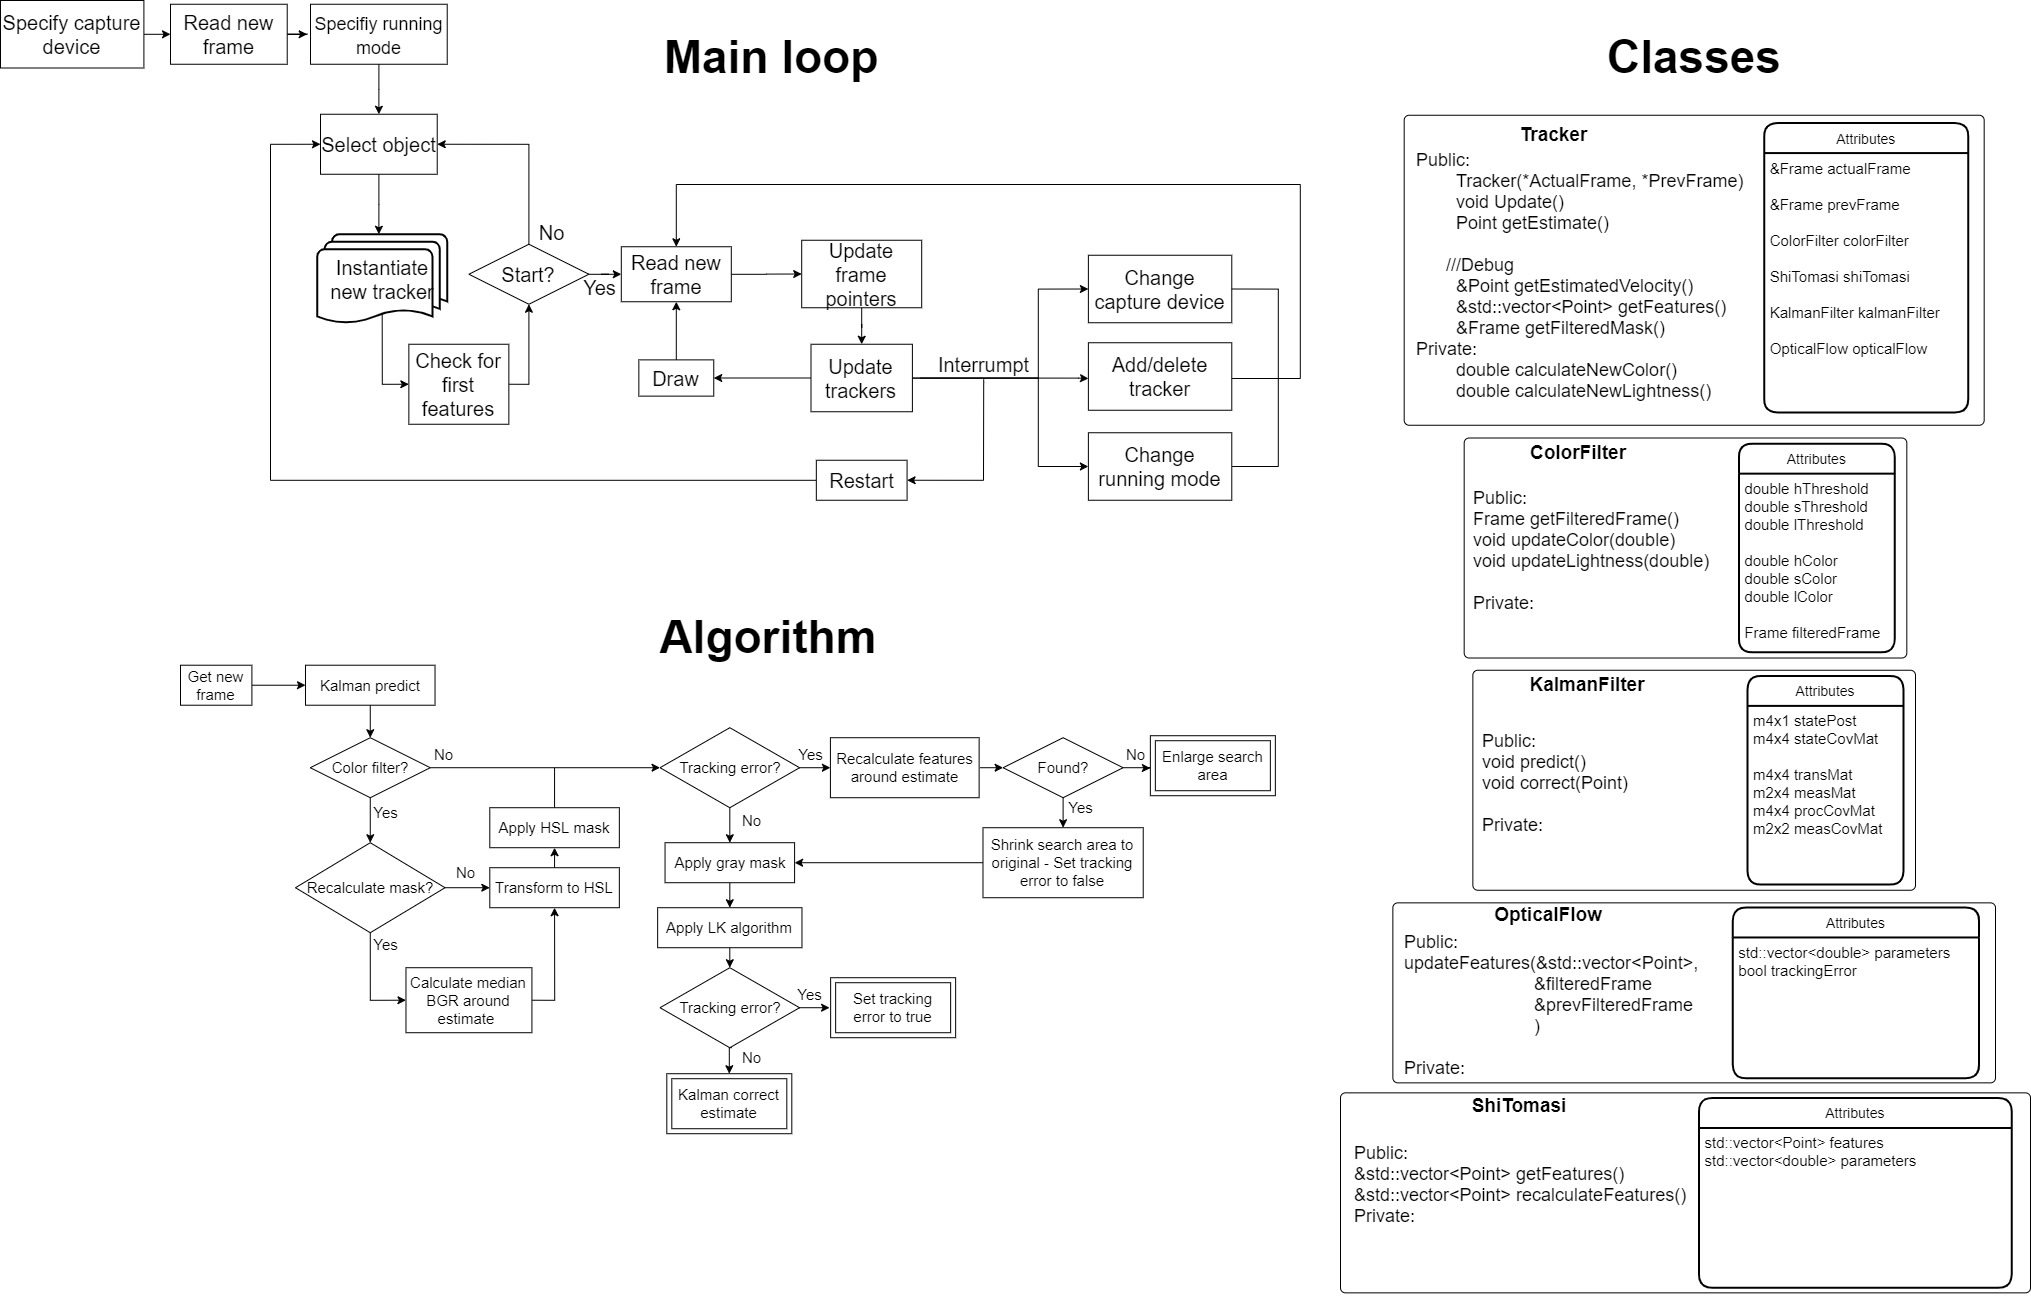
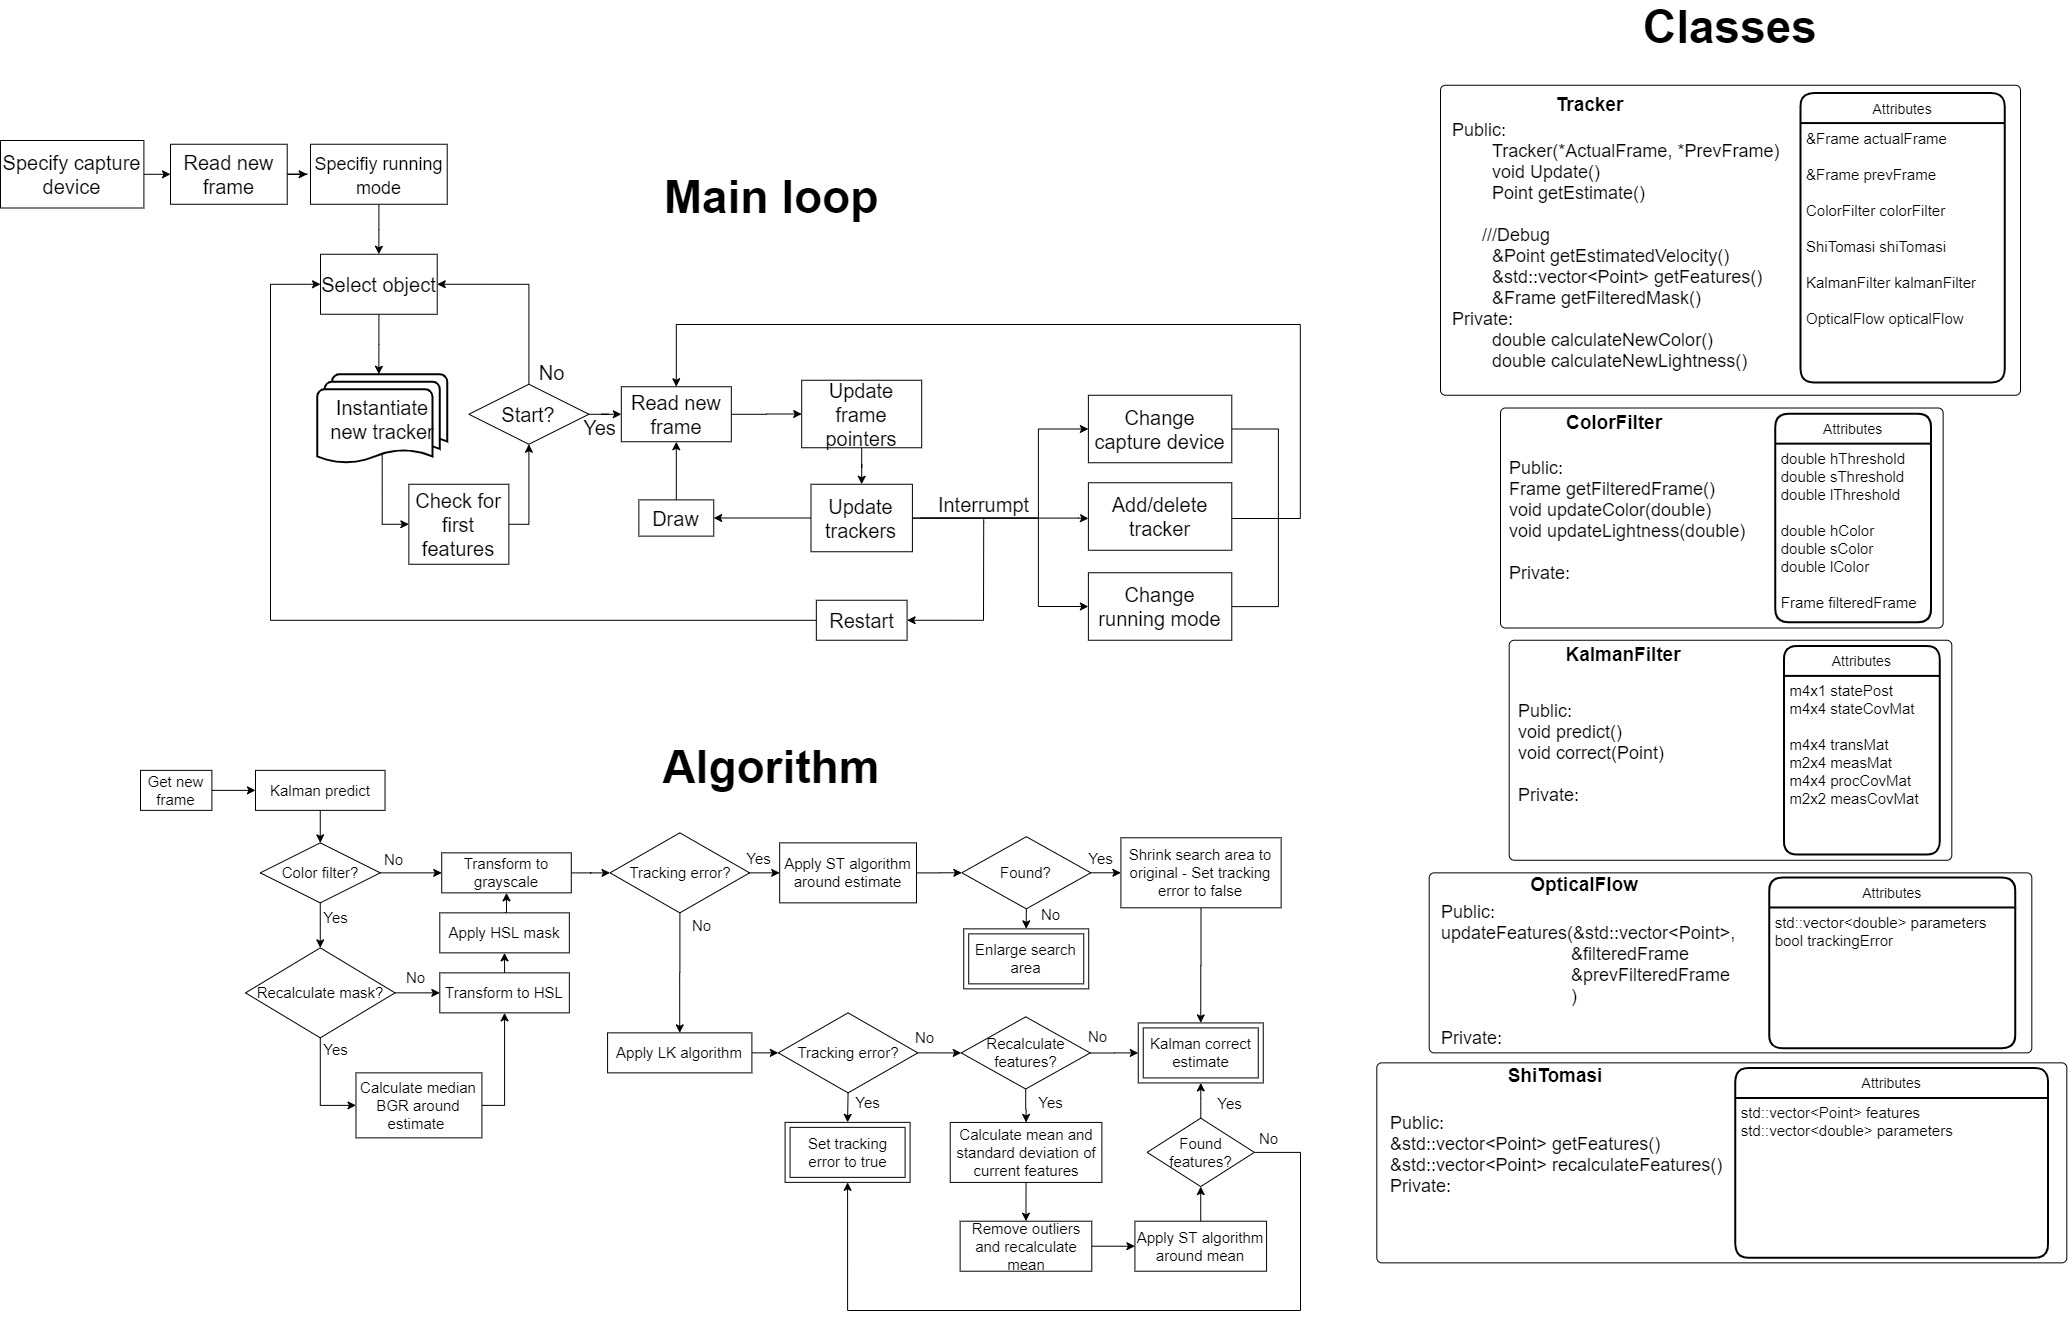
casi terminado funcion update

diff --git a/Python2/Tracker.py b/Python2/Tracker.py
@@ -1,30 +1,76 @@
 import cv2 as cv
+import numpy as np
 import KalmanFilter
 import ColorFilter
 import ShiTomasi
 import OpticalFlow
 
+
 class Tracker:
     LIG_THR_EVERY_FRAMES = 15
-    SEARCHING_ENLARGEMENT = 4  # Rapidez con la que se agranda el area de busqueda
 
-    def __init__(self):
+    def __init__(self, initialPosition, initialWidth, initialHeight):
         self.LK= OpticalFlow.OpticalFlow()
         self.ST= ShiTomasi.ShiTomasi()
         self.KM = KalmanFilter.KalmanFilter()
         self.ColF=ColorFilter.ColorFilter()
 
-    def update(self, prevFrame, frame):
-        pass
+        self.KM.statePost = np.array([initialPosition[0], initialPosition[1], 0., 0.]).reshape(4, 1)
+        self.selectionWidth = initialWidth
+        self.selectionHeigth = initialHeight
+        self.searchWidth = 0
+        self.searchHeight = 0
+        self.trackingError = False
+        self.prevFrameGray = None
+        self.frameCounter = 0
+        self.features = 0
+
+    def update(self, frame):
+
+        self.frameCounter += 1
+        self.KM.predict()
+
+        if self.ColF.colorFilterUse is True:
+            pass
+        #falta toddo lo de filtro de color
+
+        frameGray = cv.cvtColor(frame, cv.COLOR_BGR2GRAY)
+
+        if self.trackingError is True:
+            self.features, self.trackingError = self.ST.recalculateFeatures(frameGray[self.KM.statePost[1] - self.searchHeight/2 : self.KM.statePost[1] + self.searchHeight/2,
+                                                                                                                          self.KM.statePost[0] - self.searchWidth/2 : self.KM.statePost[0] + self.searchWidth/2])
+            if self.trackingError is True:
+                self.enlargeSearchArea()
+                return
+            else:
+                self.searchHeight = self.selectionHeigth
+                self.searchWidth = self.selectionWidth
+                self.KM.correct(*np.mean(self.features, axis=0))
+
+        self.features, self.trackingError = self.LK.updateFeatures(self.prevFrameGray, frameGray)
+
+        if self.trackingError is True:
+            return
+
+        if self.frameCounter != 0 and self.frameCounter % self.ST.frameRecalculationNumber == 0:
+            mux, muy = np.mean(self.features, axis=0)
+            std = np.sqrt(np.power(np.std(self.features, axis = 0), 2), np.power(np.std(self.features, axis=0), 2))
+            #falta eliminar outliers de self.features, volver a calcular la media, y aplicar shitomasi al rededor de esa media
+            #si se encuentran mierdas con shitomasi, hacer un kalman correct y si no poner trackingError en false.
+        else:
+            self.KM.correct(*np.mean(self.features, axis=0)) #dudosa implementasion
+            return
+
+
+    def enlargeSearchArea(self):
+        self.searchWidth += self.ST.searchEnlargementThreshold
+        self.searchHeight += self.ST.searchEnlargementThreshold
 
     def getEstimatedPosition(self):
         return self.KM.statePost[0], self.KM.statePost[1]
 
     def getEstimatedVelocity(self):
         return self.KM.statePost[2], self.KM.statePost[3]
-
-    def getFeatures(self):
-        return self.ST.getFeatures()
 
     def getFilteredFrame(self):
         pass

diff --git a/Python2/OpticalFlow.py b/Python2/OpticalFlow.py
@@ -1,4 +1,5 @@
 import cv2 as cv
+import numpy as np
 
 
 class OpticalFlow:
@@ -11,8 +12,19 @@ class OpticalFlow:
                      maxLevel=lkMaxLevel,  # Niveles del arbol maximos
                      criteria=lkCriteria)
     def __init__(self):
-        pass
+        self.prevFeaturesLK = None
 
-    def updateFeatures(self, prevFrameGray, frameGray, features):
-        next_, status, error  = cv.calcOpticalFlowPyrLK(prevFrameGray, frameGray, features, None, **self.lk_params)
-        return [next_, status, error ]
+    def updateFeatures(self, prevFrameGray, frameGray):
+
+        newFeaturesLK, status, error  = cv.calcOpticalFlowPyrLK(prevFrameGray, frameGray, self.prevFeaturesLK, None, **self.lk_params)
+
+        if np.any(status):  # Se verifica si se perdio al objeto
+            error = False
+            newFeatures = newFeaturesLK[status == 1]
+            self.prevFeaturesLK = newFeatures.reshape(-1, 1, 2)
+        else:
+            error = True
+            newFeatures = 0
+            self.prevFeaturesLK = 0
+
+        return newFeatures, error

diff --git a/Python2/ShiTomasi.py b/Python2/ShiTomasi.py
@@ -6,7 +6,8 @@ class ShiTomasi:
     qLevel=0.00000001
     minDist = 10
     blockSize_ = 10
-    RECALC_EVERY_FRAMES = 20
+    frameRecalculationNumber = 20
+    searchEnlargementThreshold = 4
 
     feature_params = dict(maxCorners=maxcorners,  # Maxima cantidad de features
                           qualityLevel=qLevel,
@@ -15,14 +16,15 @@ class ShiTomasi:
                           blockSize=blockSize_)
 
     def __init__(self):
-        self.features = None
-
-    def getFeatures(self):
-        return self.features
+        pass
 
     def recalculateFeatures(self, selection): #selection = prev_gray[y:y + h, x:x + w]
-        self.features = cv.goodFeaturesToTrack(selection, mask=None, **self.feature_params)
-        return self.features
+        features = cv.goodFeaturesToTrack(selection, mask=None, **self.feature_params)
+        if features is not None:
+            error = False
+        else:
+            error = True
+        return features, error
 
 
 

diff --git a/Python2/ColorFilter.py b/Python2/ColorFilter.py
@@ -2,10 +2,12 @@ import cv2 as cv
 
 
 class ColorFilter:
+    colorFilterUse = True
     hSemiAmp = 0
     SemiAmp = 0
     vSemiAmp = 0
     LIG_THR_CHANGE = 1
+
 
     def __init__(self):
         self.filteredFrame = 0
